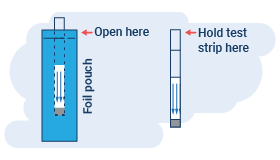
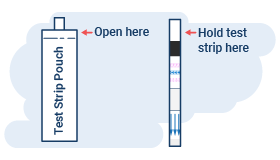
Update photo screens

Changed region(s): [[0.1429, 0.0938, 0.3429, 0.9062], [0.6, 0.0938, 0.6571, 0.9375]]

diff --git a/FluStudy/src/ui/screens/SurveyScreens.tsx b/FluStudy/src/ui/screens/SurveyScreens.tsx
@@ -87,14 +87,17 @@ import {
   emailSupport,
 } from "../externalActions";
 import {
+  ASPECT_RATIO,
   BORDER_RADIUS,
   BUTTON_WIDTH,
   GUTTER,
   LARGE_TEXT,
   EXTRA_SMALL_TEXT,
+  NAV_BAR_HEIGHT,
   SECONDARY_COLOR,
   SMALL_TEXT,
   STATUS_BAR_HEIGHT,
+  SYSTEM_PADDING_BOTTOM,
 } from "../styles";
 import { DEVICE_INFO } from "../../transport/DeviceInfo";
 import { tracker, FunnelEvents } from "../../util/tracker";
@@ -1232,14 +1235,9 @@ class GeneralExposureScreen extends React.Component<
         onNext={this._onNext}
       >
         <Divider />
-        <Text content={t("expoDesc")} />
+        <Text content={t("expoDesc")} style={{ marginBottom: GUTTER }} />
         <Image
-          style={{
-            aspectRatio: 1.75,
-            height: undefined,
-            marginVertical: GUTTER,
-            width: "100%",
-          }}
+          style={imageStyles.image}
           source={require("../../img/generalExposure.png")}
         />
         <Text
@@ -1606,6 +1604,11 @@ class PictureInstructionsScreen extends React.Component<
   constructor(props: Props & WithNamespaces) {
     super(props);
     this._onNext = this._onNext.bind(this);
+    this._skip = this._skip.bind(this);
+  }
+
+  _skip() {
+    this.props.navigation.push("CleanFirstTest");
   }
 
   async _onNext() {
@@ -1613,7 +1616,7 @@ class PictureInstructionsScreen extends React.Component<
     if (status === "granted") {
       this.props.navigation.push("TestStripCamera");
     } else {
-      this.props.navigation.push("CleanFirstTest");
+      this._skip();
     }
   }
 
@@ -1623,11 +1626,34 @@ class PictureInstructionsScreen extends React.Component<
       <Screen
         canProceed={true}
         desc={t("desc")}
+        footer={
+          <Links
+            center={true}
+            links={[{ label: t("skip"), onPress: this._skip }]}
+          />
+        }
         imageSrc={require("../../img/takePictureTestStrip.png")}
         navigation={this.props.navigation}
         title={t("title")}
         onNext={this._onNext}
-      />
+      >
+        <Image
+          style={imageStyles.image}
+          source={require("../../img/testStripCamera1.png")}
+        />
+        <Text
+          content={t("tip2")}
+          style={{ alignSelf: "stretch", marginBottom: GUTTER }}
+        />
+        <Image
+          style={imageStyles.image}
+          source={require("../../img/testStripCamera2.png")}
+        />
+        <Text
+          content={t("tip3")}
+          style={{ alignSelf: "stretch", marginBottom: GUTTER }}
+        />
+      </Screen>
     );
   }
 }
@@ -1681,41 +1707,68 @@ class TestStripCameraScreen extends React.Component<Props & WithNamespaces> {
     const { t } = this.props;
     return (
       <Chrome navigation={this.props.navigation}>
-        <View style={{ flex: 1 }}>
+        <View style={{ flex: 1, marginBottom: -1 * SYSTEM_PADDING_BOTTOM }}>
           <Spinner visible={this.state.spinner} />
           <Camera ref={this.camera} style={cameraStyles.camera} />
           <View style={cameraStyles.overlayContainer}>
             <Text
               center={true}
               content={t("title")}
-              style={[cameraStyles.overlayText, { fontSize: LARGE_TEXT }]}
-            />
-            <View style={cameraStyles.targetBox}>
-              <Image
-                style={cameraStyles.testStrip}
-                source={require("../../img/testStripCameraImage.png")}
-              />
-            </View>
-            <Text
-              center={true}
-              content={t("description")}
               style={cameraStyles.overlayText}
             />
-            <TouchableOpacity onPress={this._takePicture}>
-              <View style={cameraStyles.outerCircle}>
-                <View style={cameraStyles.circle} />
+            <View style={cameraStyles.innerContainer}>
+              <Image
+                style={cameraStyles.testStrip}
+                source={require("../../img/testStripDetail.png")}
+              />
+              <View style={{ flex: 1, marginLeft: GUTTER }}>
+                <Text
+                  center={true}
+                  content={t("stripHere")}
+                  style={cameraStyles.overlayText}
+                />
+                <View style={cameraStyles.targetBox} />
               </View>
-            </TouchableOpacity>
+            </View>
+            <View style={{ alignItems: "center", alignSelf: "stretch" }}>
+              <Text
+                center={true}
+                content={t("description")}
+                style={cameraStyles.overlayText}
+              />
+              <TouchableOpacity onPress={this._takePicture}>
+                <View style={cameraStyles.outerCircle}>
+                  <View style={cameraStyles.circle} />
+                </View>
+              </TouchableOpacity>
+            </View>
           </View>
         </View>
       </Chrome>
     );
   }
 }
+
+const imageStyles = StyleSheet.create({
+  image: {
+    aspectRatio: ASPECT_RATIO,
+    height: undefined,
+    marginBottom: GUTTER,
+    width: "100%",
+  },
+});
+
 const cameraStyles = StyleSheet.create({
   camera: {
     alignSelf: "stretch",
     flex: 1,
+  },
+  innerContainer: {
+    height: "100%",
+    flexDirection: "row",
+    flex: 1,
+    marginHorizontal: GUTTER * 2,
+    marginBottom: GUTTER,
   },
   outerCircle: {
     alignItems: "center",
@@ -1737,6 +1790,8 @@ const cameraStyles = StyleSheet.create({
   },
   overlayText: {
     color: "white",
+    fontSize: LARGE_TEXT,
+    marginVertical: GUTTER,
     textShadowColor: "rgba(0, 0, 0, 0.99)",
     textShadowOffset: { width: -1, height: 1 },
     textShadowRadius: 10,
@@ -1745,26 +1800,29 @@ const cameraStyles = StyleSheet.create({
     alignItems: "center",
     justifyContent: "space-between",
     left: 0,
-    padding: GUTTER,
     right: 0,
     position: "absolute",
     top: 0,
     bottom: 0,
+    marginBottom: GUTTER + SYSTEM_PADDING_BOTTOM,
   },
   targetBox: {
-    alignItems: "flex-start",
+    alignSelf: "center",
     borderColor: "white",
     borderRadius: 5,
     borderStyle: "dashed",
     borderWidth: 4,
-    height: "45%",
-    justifyContent: "center",
-    width: "80%",
+    flex: 1,
+    shadowColor: "rgba(0, 0, 0, 0.99)",
+    shadowOffset: { width: -1, height: 1 },
+    shadowRadius: 10,
+    width: "65%",
   },
   testStrip: {
-    aspectRatio: 0.176,
-    justifyContent: "center",
+    alignSelf: "center",
+    aspectRatio: 0.135,
     height: "95%",
+    marginTop: GUTTER,
     marginLeft: GUTTER,
     width: undefined,
   },

diff --git a/FluStudy/src/ui/components/Screen.tsx b/FluStudy/src/ui/components/Screen.tsx
@@ -16,7 +16,7 @@ import Chrome from "./Chrome";
 import Step from "./Step";
 import Text from "./Text";
 import Title from "./Title";
-import { GUTTER, IMAGE_WIDTH } from "../styles";
+import { ASPECT_RATIO, GUTTER, IMAGE_WIDTH } from "../styles";
 
 interface Props {
   buttonLabel?: string;
@@ -118,7 +118,7 @@ const styles = StyleSheet.create({
   },
   image: {
     alignSelf: "center",
-    aspectRatio: 1.75,
+    aspectRatio: ASPECT_RATIO,
     height: undefined,
     marginVertical: GUTTER / 2,
     width: IMAGE_WIDTH,

diff --git a/FluStudy/src/ui/components/Chrome.tsx b/FluStudy/src/ui/components/Chrome.tsx
@@ -14,6 +14,7 @@ import { Action, StoreState, setDemo } from "../../store";
 import NavigationBar from "./NavigationBar";
 import Text from "./Text";
 import {
+  ASPECT_RATIO,
   GUTTER,
   IMAGE_WIDTH,
   NAV_BAR_HEIGHT,
@@ -142,7 +143,7 @@ const styles = StyleSheet.create({
   },
   image: {
     alignSelf: "center",
-    aspectRatio: 1.75,
+    aspectRatio: ASPECT_RATIO,
     height: undefined,
     marginVertical: GUTTER / 2,
     width: IMAGE_WIDTH,

diff --git a/FluStudy/src/ui/styles.ts b/FluStudy/src/ui/styles.ts
@@ -62,4 +62,5 @@ export const IMAGE_WIDTH = isIPhoneSE ? "75%" : "100%";
 export const SPLASH_IMAGE = isIPhoneSE
   ? require("../img/mediumSplash.png")
   : require("../img/splash.png");
+export const ASPECT_RATIO = 1.75;
 export const SPLASH_RATIO = isIPhoneSE ? 1.26 : 1.05;
